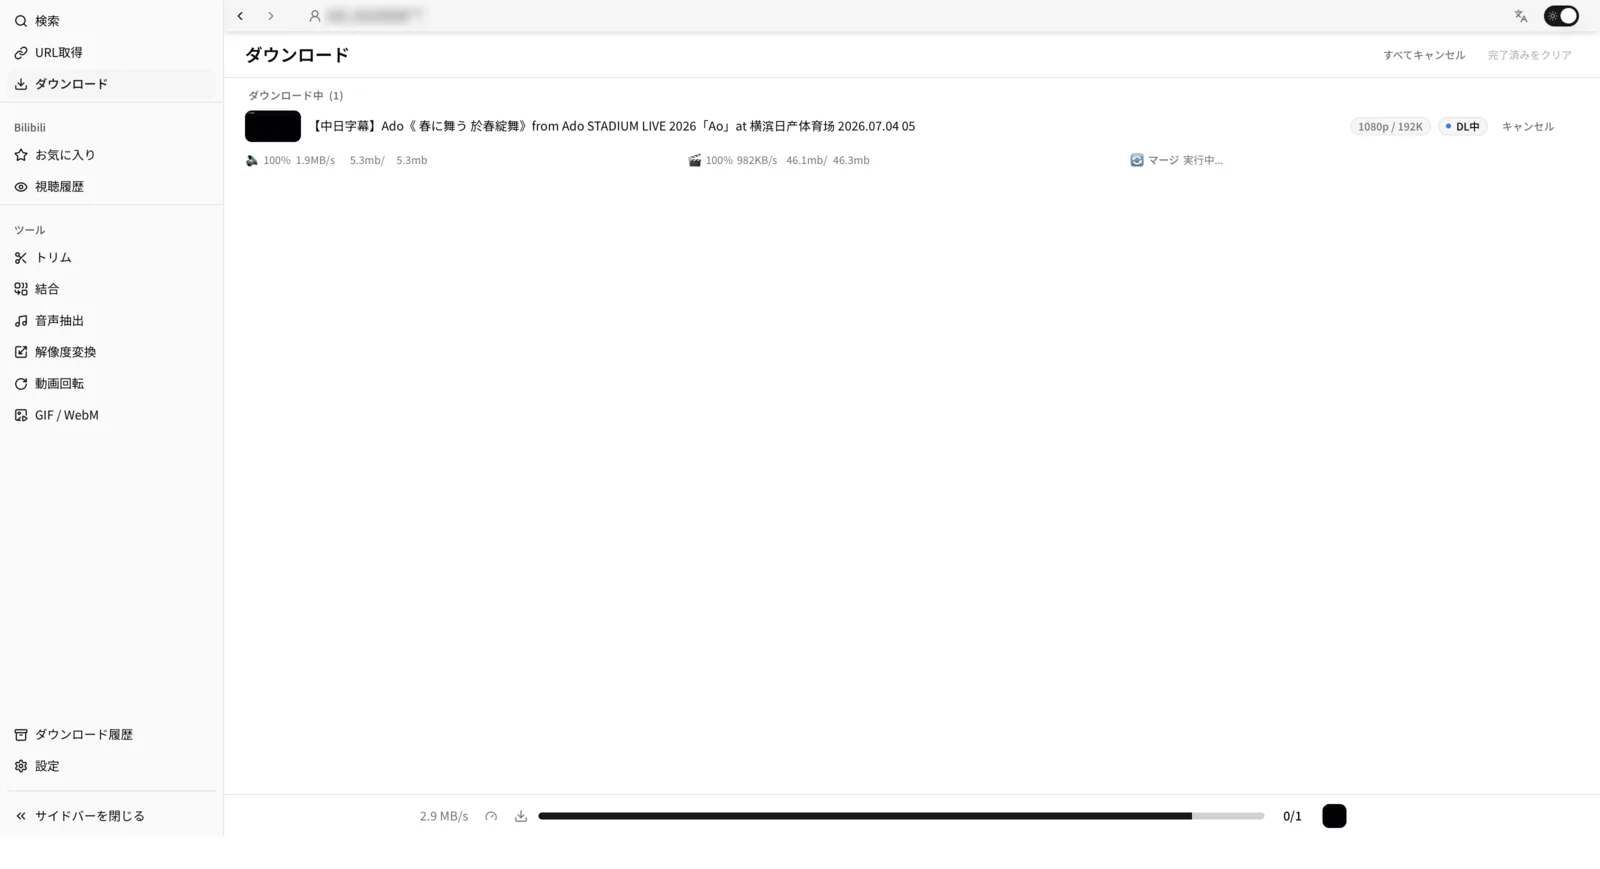
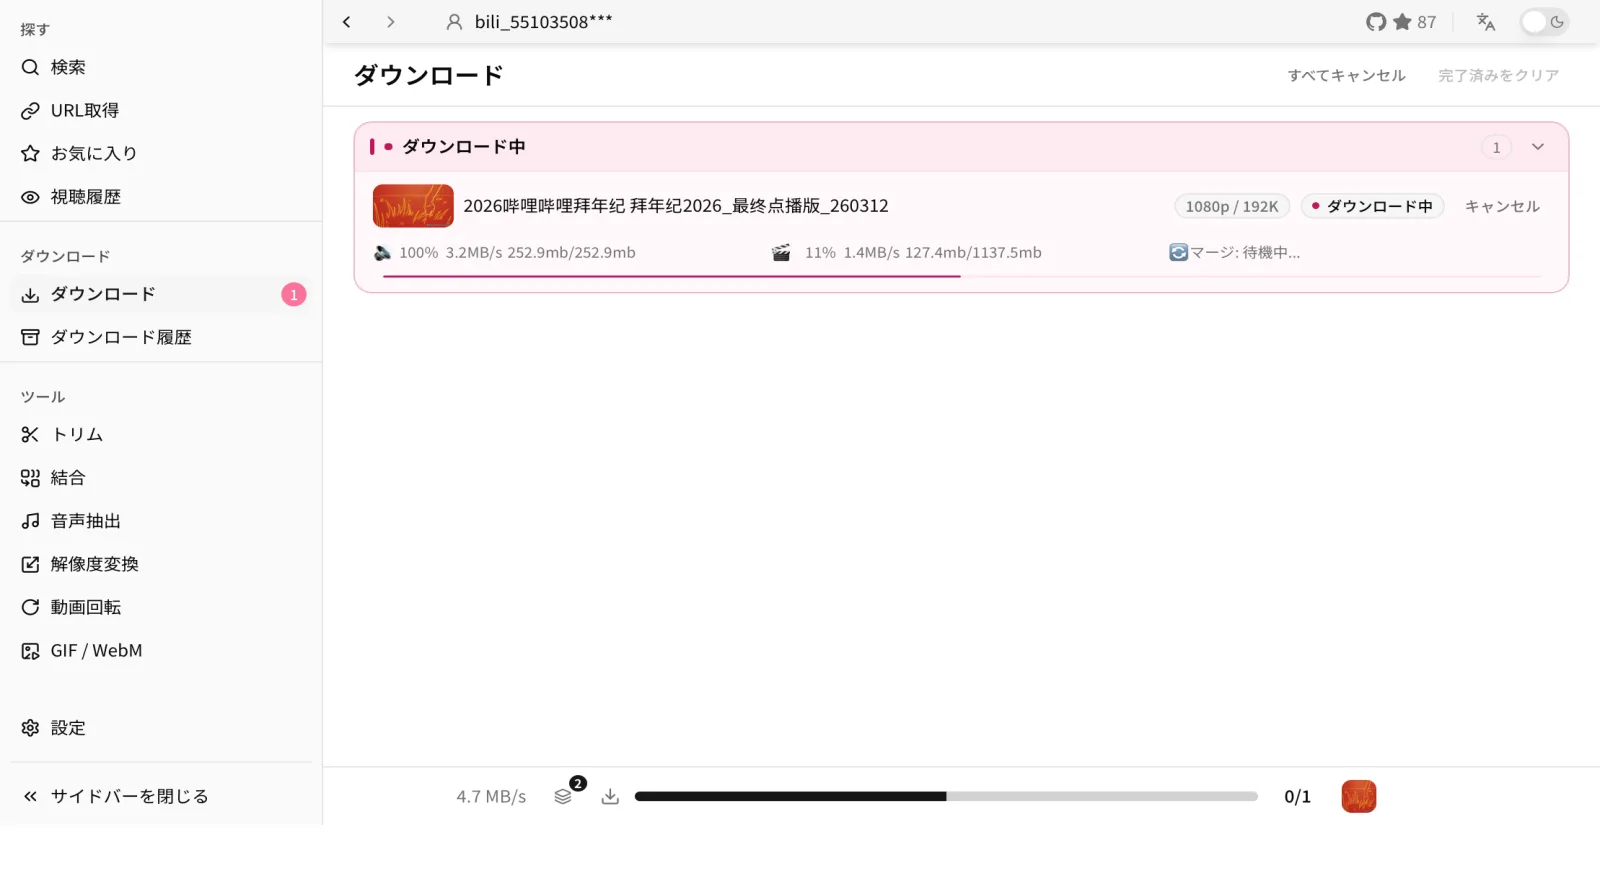
docs: refresh site content and screenshots for parallel downloads and new features (#903)
## Summary

Bring the GitHub Pages docs site (docs/) up to date with the app:

- **Download queue & parallelism** (all 6 languages): new section in the
how-to guide covering **Simultaneous Part Downloads** (1–4, default 2)
and **Segment Download Parallelism** (1/2/4/6/8, default 8), using each
locale's exact settings UI label
- **Default subtitle mode** (all 6 languages): new section on the
Default Subtitle Mode setting + Hard Sub Language Priority (ordered,
first available wins, "All other languages" fallback); step 2 reworded
to match
- **Search guide** (all 6 languages): Ctrl+A / Ctrl+Enter shortcuts, the
"For you" shelf refresh button, and the URL-page part-thumbnail preview
dialog
- **FAQ** (all 6 languages): new entry — login method switches apply
after an app restart
- **Screenshots**: regenerated `app-search` / `app-downloads`
(light/dark pairs, 1600×869) from a live capture of the current UI,
featuring **only videos uploaded by bilibili's own account** (哔哩哔哩拜年纪) —
no third-party user content
- **CLAUDE.md**: new "Screenshots & Captured Media" rule — captured
media must feature bilibili's own uploads; bilibili-verified third-party
accounts do not qualify

## Related Issue

None (no matching open issue)

## Type of Change

- [ ] 🐛 Bug fix
- [ ] ✨ New feature
- [ ] 💥 Breaking change
- [x] 📝 Documentation
- [ ] ♻ Refactoring
- [ ] 🔧 Chore

## Test Plan

- [x] `cd docs && npm run build` — 48 pages build clean
- [x] `cd docs && npm run format:check` — prettier clean
[…]

diff --git a/docs/src/content/guides/fr/search-and-download.md b/docs/src/content/guides/fr/search-and-download.md
@@ -34,6 +34,8 @@ Survolez une carte et un aperçu démarre, pour n'envoyer à la file de téléch
 
 Le survol d'une carte joue un aperçu court. Un bon candidat ? Le bouton de téléchargement de la carte ouvre le choix de qualité et de sous-titres. Les limites de qualité dépendent de votre connexion et de votre abonnement — voir la section qualité du [guide de téléchargement](/bilibili-downloader-gui/fr/guides/how-to-download/).
 
+Pour les enregistrements par lots, deux raccourcis clavier accélèrent les choses : **Ctrl+A** bascule la sélection de toutes les parties de la vidéo chargée, et **Ctrl+Enter** envoie toute la sélection dans la file de téléchargement.
+
 ## Suivre les tendances avec le fil populaire
 
 Laissez la recherche vide et l'app affiche ce qui trend sur tout bilibili. C'est l'outil adapté sans vidéo précise en tête : « sauvegarder ce qui est chaud » ou « trouver quelque chose de bien ce soir ».
@@ -46,6 +48,8 @@ Connectez-vous via le cookie Firefox ou le code QR et une section **Pour vous** 
 
 Chaque carte porte une insignia de raison (par ex. « 高点赞量 », beaucoup de likes), pour comprendre la recommandation. Non connecté ou en cas d'échec, la section n'apparaît tout simplement pas.
 
+Un bouton d'actualisation sur l'étagère recharge les recommandations à la demande — elles ne prennent pas la poussière pendant que vous restez sur la page.
+
 La configuration de la connexion est couverte dans la section dédiée du [guide de téléchargement](/bilibili-downloader-gui/fr/guides/how-to-download/).
 
 ## Prévisualiser avant de télécharger
@@ -54,6 +58,7 @@ Le plus grand gain de la recherche intégrée, c'est **vérifier avant d'enregis
 
 - Survolez ou touchez une carte et la vidéo se lance
 - Les vidéos indisponibles ou bloquées par région affichent un message dédié d'emblée
+- Vous collez une URL ? Cliquer une miniature de partie sur la page de la vidéo ouvre le même aperçu dans un dialogue
 
 Fini de télécharger un contenu qui ne payait que de mine dans la miniature.
 

diff --git a/docs/src/content/guides/es/search-and-download.md b/docs/src/content/guides/es/search-and-download.md
@@ -34,6 +34,8 @@ Al pasar el cursor sobre una tarjeta se reproduce una vista previa, así que pue
 
 Al pasar el cursor sobre una tarjeta se reproduce una vista previa corta. Cuando des con un buen candidato, pulsa el botón de descarga de la tarjeta, elige calidad y subtítulos y guarda. Los límites de calidad dependen de tu sesión y nivel de membresía; consulta la sección de calidad de la [guía de descarga](/bilibili-downloader-gui/es/guides/how-to-download/).
 
+Para guardar por lotes hay dos atajos de teclado: **Ctrl+A** alterna la selección de todas las partes del vídeo cargado y **Ctrl+Enter** envía la selección entera a la cola de descargas.
+
 ## Seguir tendencias con el feed popular
 
 Deja el cuadro vacío y la app muestra lo más popular de todo bilibili. Es la herramienta adecuada cuando no tienes un vídeo concreto en mente: «guardar lo que está de moda» o «encontrar algo bueno para esta noche».
@@ -46,6 +48,8 @@ Inicia sesión con la cookie de Firefox o el código QR y aparecerá una secció
 
 Cada tarjeta lleva una insignia con la razón (por ejemplo «高点赞量», muchos likes), así que ves por qué te lo recomendaron. Sin sesión o si falla la petición, la sección simplemente no aparece.
 
+Un botón de refresco en el estante recarga las recomendaciones al momento, así que no se quedan desfasadas mientras permaneces en la página.
+
 La configuración del inicio de sesión está en la sección correspondiente de la [guía de descarga](/bilibili-downloader-gui/es/guides/how-to-download/).
 
 ## Previsualizar antes de descargar
@@ -54,6 +58,7 @@ La mayor ventaja de la búsqueda integrada es **comprobar antes de guardar**:
 
 - Pasa el cursor o toca una tarjeta y el vídeo empieza a reproducirse
 - Los vídeos no disponibles o bloqueados por región muestran un aviso específico desde el principio
+- ¿Pegas una URL? Al pulsar una miniatura de parte en la página del vídeo se abre la misma vista previa en un diálogo
 
 Se acabó descargar algo que solo parecía bueno en la miniatura.
 

diff --git a/docs/src/content/guides/en/search-and-download.md b/docs/src/content/guides/en/search-and-download.md
@@ -34,6 +34,8 @@ Hover a result card and a preview starts playing, so you can send exactly the vi
 
 Hovering a card plays a short preview. When you find a keeper, hit the download button on the card, pick quality and subtitles, and save. Quality limits depend on your login state and membership tier — see the quality section of the [how-to-download guide](/bilibili-downloader-gui/guides/how-to-download/).
 
+For batch saving, two keyboard shortcuts speed things up: **Ctrl+A** toggles selecting every part of the loaded video, and **Ctrl+Enter** sends the whole selection to the download queue.
+
 ## Catching trends with the popular feed
 
 Leave the search box empty and the app shows what's trending across all of bilibili. It's the right tool when you don't have a specific video in mind — "save what's hot right now" or "find something good to watch tonight."
@@ -46,6 +48,8 @@ Sign in with a Firefox cookie or the QR code, and a **For you** section appears 
 
 Each card carries a reason badge (for example "高点赞量", high likes), so you can see why it was recommended. If you're not signed in or the fetch fails, the section simply doesn't appear.
 
+A refresh button on the shelf reloads the recommendations on demand, so the shelf never goes stale while you sit on the page.
+
 Login setup is covered in the login section of the [how-to-download guide](/bilibili-downloader-gui/guides/how-to-download/).
 
 ## Preview before you download
@@ -54,6 +58,7 @@ The biggest win of in-app search is **checking before saving**:
 
 - Hover or tap a card and the video itself starts playing
 - Unavailable or region-locked videos show a dedicated message up front
+- Pasting a URL instead? Clicking a part thumbnail on the video page opens the same preview in a dialog
 
 No more downloading something that only looked right in the thumbnail.
 

diff --git a/docs/src/content/guides/fr/how-to-download.md b/docs/src/content/guides/fr/how-to-download.md
@@ -48,6 +48,7 @@ Pourquoi la recommander :
 - Sous-titres intégrés jusqu'à 15 langues
 - Sélection d'épisodes et téléchargement par lots des bangumi
 - Enregistrement audio seul (MP3, etc.)
+- Une file de téléchargements qui continue pendant que vous naviguez, avec plusieurs parties à la fois
 
 ### Installation (Windows / macOS)
 
@@ -65,6 +66,10 @@ Pourquoi la recommander :
 Vidéo et audio sont fusionnés automatiquement — aucune étape supplémentaire.
 
 Envie de vous passer du navigateur ? L'app propose aussi une recherche intégrée : voir [rechercher et télécharger dans l'app](/bilibili-downloader-gui/fr/guides/search-and-download/).
+
+### La file de téléchargement : elle continue pendant que vous naviguez
+
+Les téléchargements lancés tournent dans une file sur la page de téléchargements : vous pouvez continuer à chercher et à ajouter des vidéos pendant qu'ils se terminent. Plusieurs parties se téléchargent en même temps — combien se règle via l'option « Téléchargements simultanés » (Réglages → Téléchargement, 1–4 parties, 2 par défaut). L'augmenter finit les lots plus vite, mais trop de connexions parallèles peuvent déclencher la limitation de bilibili ; si les téléchargements deviennent instables, réduisez-la. Au sein de chaque partie, les segments se téléchargent aussi en parallèle — combien se règle via « Parallélisme du Téléchargement de Segments » (1/2/4/6/8, 8 par défaut) ; si la limitation du CDN de bilibili déstabilise les vitesses, réduisez-le.
 
 ### Choisir la qualité (480p–4K et le rôle de la connexion)
 

diff --git a/docs/src/content/guides/ko/download-with-subtitles.md b/docs/src/content/guides/ko/download-with-subtitles.md
@@ -22,11 +22,15 @@ bilibili 동영상에는 중국어 자막뿐 아니라 업로더나 시청자가
 ## 절차(앱 내 자막 설정)
 
 1. 앱을 실행하고 bilibili 동영상 URL을 붙여넣습니다
-2. 화질과 함께 자막 모드(소프트/하드/없음)와 언어를 선택합니다
+2. 화질과 함께 자막 모드(소프트/하드/없음)를 선택합니다. 하드 자막의 언어는 우선순위로 정해집니다(아래 참고)
 3. 다운로드를 시작하면 자막이 먼저 처리된 뒤 저장됩니다
 4. 자막 처리 진행 상황이 실시간으로 표시됩니다
 
 **주의**: 자막 다운로드에는 Firefox로 bilibili에 로그인해야 합니다. 앱이 Firefox 쿠키를 자동 감지하므로, Firefox에서 미리 로그인해 두면 별도 조작이 필요 없습니다. 로그인 절차는 [다운로드 방법 가이드](/bilibili-downloader-gui/ko/guides/how-to-download/)를 참고하세요.
+
+### 기본 자막 모드를 한 번만 설정하기
+
+설정→다운로드의 '기본 자막 모드'에서 동영상을 불러올 때마다 적용될 초기 선택(없음/소프트/하드)을 지정할 수 있어, 다운로드 화면을 따로 조작하지 않아도 됩니다. **하드 서브**를 선택하면 '하드 서브 언어 우선순위' 목록 순서대로 언어를 시도하고, 해당 파트에서 사용 가능한 첫 번째 언어가 삽입됩니다. 목록에 '그 외 모든 언어'를 추가하면 선택한 언어가 없는 파트도 처리할 수 있습니다.
 
 ## 지원 언어(최대 15개)와 AI 자막
 

diff --git a/docs/src/content/guides/fr/download-with-subtitles.md b/docs/src/content/guides/fr/download-with-subtitles.md
@@ -27,11 +27,15 @@ Un téléchargement sans sous-titres reste bien sûr possible.
 ## Étapes (réglages des sous-titres dans l'app)
 
 1. Lancez l'app et collez l'URL de la vidéo Bilibili
-2. Avec la qualité, choisissez le mode de sous-titres (soft / hard / aucun) et la langue
+2. Avec la qualité, choisissez le mode de sous-titres (soft / hard / aucun) ; en hard sub, la langue est décidée par priorité (voir ci-dessous)
 3. Lancez le téléchargement : les sous-titres sont traités d'abord, puis la vidéo est enregistrée
 4. La progression du traitement s'affiche en direct
 
 **À noter** : le téléchargement des sous-titres exige une connexion à Bilibili via Firefox. L'app détecte automatiquement le cookie Firefox — il suffit de s'être connecté une fois dans Firefox. Détails dans le [guide principal](/bilibili-downloader-gui/fr/guides/how-to-download/).
+
+### Définir un mode de sous-titres par défaut, une seule fois
+
+Dans Réglages → Téléchargement, « Mode de Sous-titres par Défaut » présélectionne votre choix (aucun / soft / hard) pour chaque vidéo chargée, si bien que l'écran de téléchargement est prêt sans rien toucher. Avec **Hard Sub** actif, la liste « Priorité des Langues pour Hard Sub » décide quelle langue est gravée : vos langues sont essayées dans l'ordre choisi et la première disponible dans la partie est utilisée. Ajouter « Toutes les autres langues » à la liste couvre les parties qui n'ont aucune de vos langues.
 
 ## Langues prises en charge (jusqu'à 15) et sous-titres IA
 

diff --git a/docs/src/content/guides/es/download-with-subtitles.md b/docs/src/content/guides/es/download-with-subtitles.md
@@ -27,11 +27,15 @@ Por supuesto, también puedes descargar sin subtítulos.
 ## Pasos (ajustes de subtítulos en la app)
 
 1. Abre la app y pega la URL del vídeo de Bilibili
-2. Junto con la calidad, elige el modo de subtítulos (suaves / duros / ninguno) y el idioma
+2. Junto con la calidad, elige el modo de subtítulos (suaves / duros / ninguno); con subtítulos duros, el idioma se decide por prioridad (ver abajo)
 3. Inicia la descarga; los subtítulos se procesan primero y luego se guarda el vídeo
 4. El progreso del procesado se muestra en tiempo real
 
 **Nota**: descargar subtítulos requiere sesión iniciada en Bilibili vía Firefox. La app detecta automáticamente las cookies de Firefox, así que basta con haber iniciado sesión en Bilibili en Firefox una vez. Detalles de sesión en la [guía principal](/bilibili-downloader-gui/es/guides/how-to-download/).
+
+### Configura un modo de subtítulos predeterminado, una sola vez
+
+En Ajustes → Descarga, «Modo de Subtítulos Predeterminado» preselecciona tu elección (ninguno / suaves / duros) para cada vídeo que cargues, de modo que la pantalla de descarga queda lista sin tocar nada. Con **Hard Sub** activo, la lista «Prioridad de Idiomas para Hard Sub» decide qué idioma se graba: se prueban tus idiomas en el orden que definas y se usa el primero disponible en la parte. Añadir «Todos los demás idiomas» a la lista cubre las partes sin ninguno de tus idiomas.
 
 ## Idiomas admitidos (hasta 15) y subtítulos de IA
 
